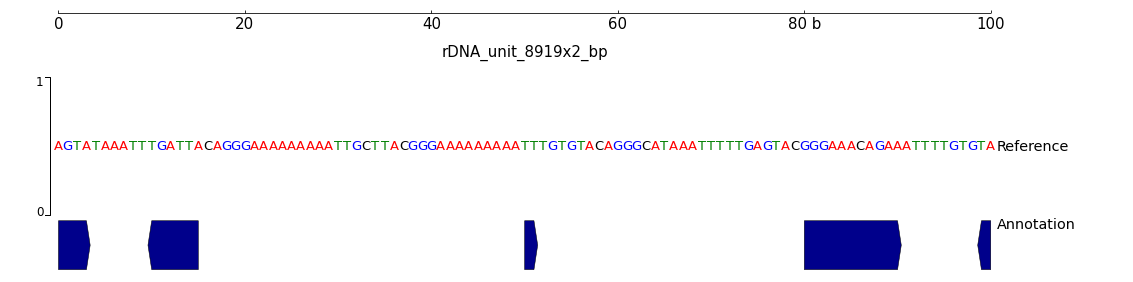
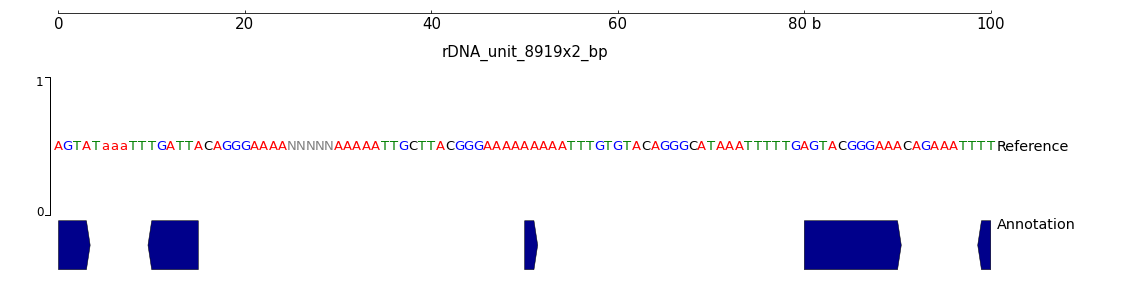
take account of N and lower cases

Changed region(s): [[0.4634, 0.4823, 0.8959, 0.539], [0.2471, 0.4823, 0.4325, 0.539], [0.0927, 0.4823, 0.1236, 0.539]]

diff --git a/pygenometracks/tracks/FastaTrack.py b/pygenometracks/tracks/FastaTrack.py
@@ -3,11 +3,14 @@ from .. utilities import get_optimal_fontsize
 import numpy as np
 import os
 
+
 # Color code for seqs
 seq_color = {'A': 'red',
              'T': 'green',
              'G': 'blue',
-             'C': 'black'}
+             'C': 'black',
+             'N':'grey'
+}
 
 
 def load_fasta(fastafile):
@@ -56,6 +59,5 @@ class FaTrack(GenomeTrack):
         seq_overlap = self.seq[chrom_region][start_region:end_region+1]
         for i in range(len(seq_overlap)):
             ax.text(i+start_region, 0.5, seq_overlap[i],
-                    color=seq_color[seq_overlap[i]], verticalalignment='center',
+                    color=seq_color[seq_overlap[i].upper()], verticalalignment='center',
                     horizontalalignment='center',fontsize=fontsize)
-
